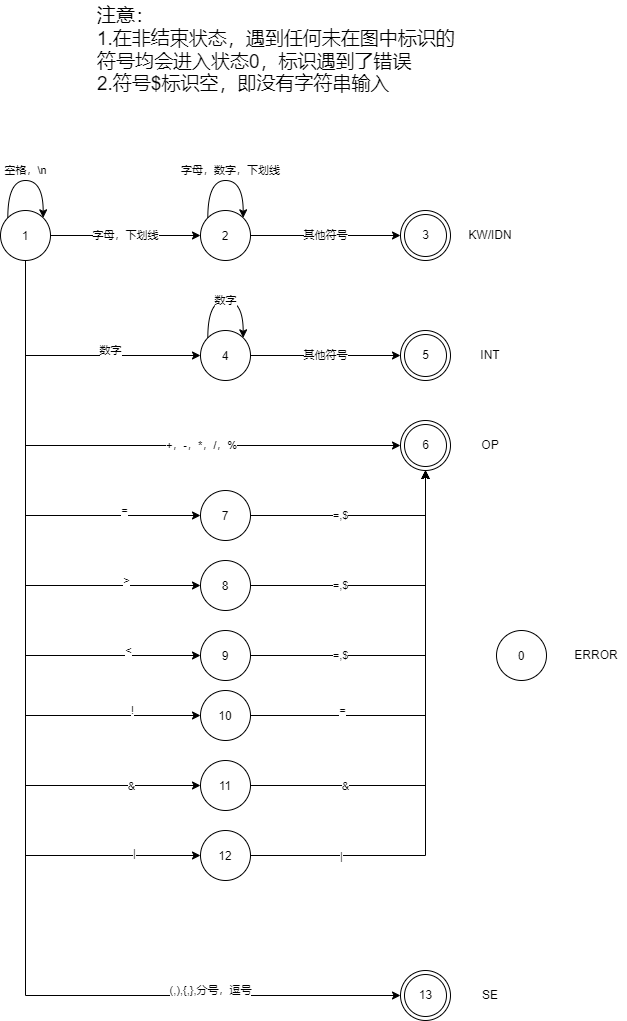
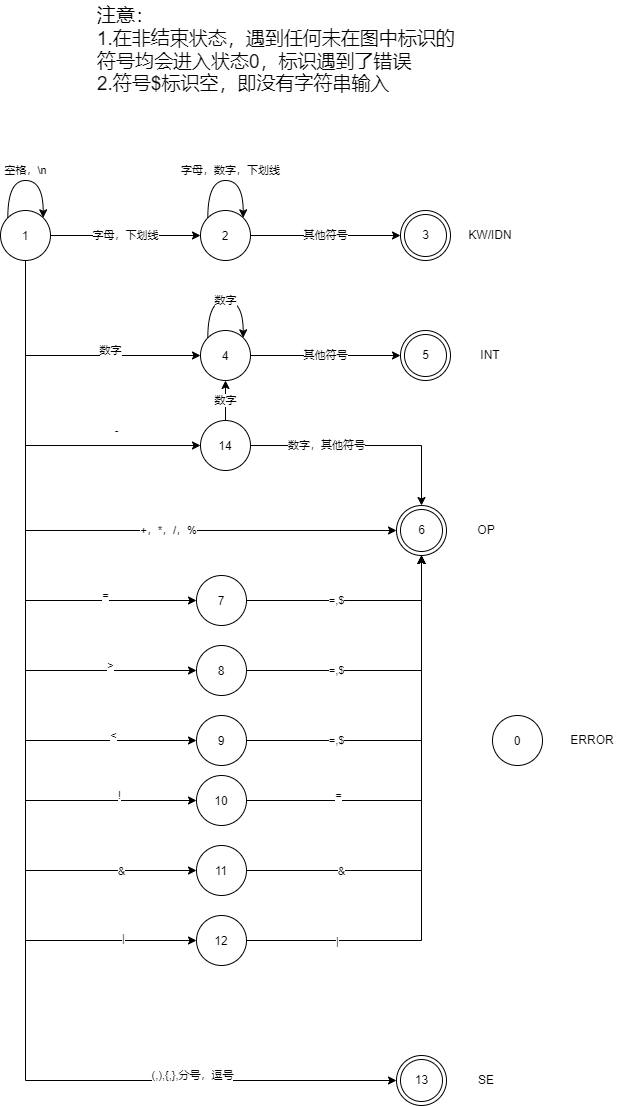
由于nfa，dfa需要，重构State，状态转换图改变

diff --git a/C--Complier/complier/src/main/java/lex/implement/StateGenerate.java b/C--Complier/complier/src/main/java/lex/implement/StateGenerate.java
@@ -4,10 +4,7 @@ import lex.entity.State;
 
 import java.io.FileNotFoundException;
 import java.io.FileReader;
-import java.util.ArrayList;
-import java.util.LinkedList;
-import java.util.List;
-import java.util.Scanner;
+import java.util.*;
 
 /**
  * @projectName: complier
@@ -19,85 +16,82 @@ import java.util.Scanner;
  * @version: 1.0
  */
 class StateGenerate {
-    List<State> generateNFA() throws FileNotFoundException {
-        List<State> stateList = new LinkedList<>();
-        Scanner scanner = new Scanner(new FileReader("./src/main/resources/initialStateTable.csv"));
-        scanner.nextLine();
+    /**
+     * @param :fileName NFA表文件所在路径
+     * @return List<State>
+     * @author ZhouXiang
+     * @description 获取初始的NFA
+     * @exception
+     */
+    List<State> generateNFA(String fileName) throws FileNotFoundException {
+        List<State> stateList = new ArrayList<>();
+        Scanner scanner = new Scanner(new FileReader(fileName));
+        String[] attribute = null;
+        if(scanner.hasNextLine()){
+            attribute = scanner.nextLine().split(",");
+        }
+
         while (scanner.hasNextLine()){
             String[] line = scanner.nextLine().split(",");
-            int stateId = Integer.parseInt(line[0]);
+            int stateId = -1;
             boolean start = false;
-            boolean end = false;
-            if(line[1].equals("TRUE")){
-                start = true;
-            }
-            if(line[2].equals("TRUE")){
-                end = true;
-            }
-            int[] symbol = new int[24];
-            for(int i = 0; i < 24; i++){
-                symbol[i] = Integer.parseInt(line[i + 3]);
+            String endSymbol = null;
+            //从表中读除了状态转移以外的数据
+            for (int i = 0; i < line.length; i++){
+                switch (attribute[i]){
+                    case "stateId":
+                        stateId = Integer.parseInt(line[i]);
+                        break;
+                    case "start":
+                        if(line[i].equals("TRUE")){
+                            start = true;
+                        }
+                        break;
+                    case "endSymbol":
+                        endSymbol = line[i];
+                        break;
+                    default:
+                }
             }
 
-            State state = new State(stateId, end, start){
+            //取出状态转移的部分
+            int attributeNum = 3;
+            int[] move = new int[line.length - attributeNum];
+            for(int i = 0; i < move.length; i++){
+                move[i] = Integer.parseInt(line[i + attributeNum]);
+            }
+
+            String[] finalAttribute = attribute;
+            State state = new State(stateId, start, endSymbol, Arrays.copyOfRange(finalAttribute, attributeNum, finalAttribute.length)){
                 @Override
+                //处理状态转移
                 public int getNextStateId(char input){
-                    if(Character.isLetter(input)){
-                        return symbol[0];
+                    for(int i = 0; i < move.length; i++){
+                        if (finalAttribute[i + attributeNum].equals("letter")) {
+                            if(Character.isLetter(input)){
+                                return move[i];
+                            }
+                        } else if (finalAttribute[i + attributeNum].equals("digit")) {
+                            if(Character.isDigit(input)){
+                                return move[i];
+                            }
+                        } else {
+                            if(Character.toString(input).equals(finalAttribute[i])){
+                                return move[i];
+                            }
+                        }
                     }
-                    if(Character.isDigit(input)){
-                        return symbol[1];
-                    }
-                    switch (input){
-                        case '_':
-                            return symbol[2];
-                        case '+':
-                            return symbol[3];
-                        case '-':
-                            return symbol[4];
-                        case '*':
-                            return symbol[5];
-                        case '/':
-                            return symbol[6];
-                        case '%':
-                            return symbol[7];
-                        case '=':
-                            return symbol[8];
-                        case '$':
-                            return symbol[9];
-                        case '>':
-                            return symbol[10];
-                        case '<':
-                            return symbol[11];
-                        case '!':
-                            return symbol[12];
-                        case '&':
-                            return symbol[13];
-                        case '|':
-                            return symbol[14];
-                        case '(':
-                            return symbol[15];
-                        case ')':
-                            return symbol[16];
-                        case '{':
-                            return symbol[17];
-                        case '}':
-                            return symbol[18];
-                        case ',':
-                            return symbol[19];
-                        case ';':
-                            return symbol[20];
-                        case ' ':
-                            return symbol[21];
-                        case '\n':
-                            return symbol[22];
-                        default:
-                            return symbol[23];
-                    }
+                    return -1;
                 }
             };
             stateList.add(state);
         }
+
         return stateList;
+    }
+
+    List<State> determineNFA(List<State> nfa){
+        List<State> dfa = new ArrayList<>();
+
     }
 }

diff --git a/C--Complier/complier/src/main/java/lex/entity/State.java b/C--Complier/complier/src/main/java/lex/entity/State.java
@@ -1,16 +1,23 @@
 package lex.entity;
 
+import java.util.ArrayList;
 import java.util.List;
 
 public class State {
-    private int stateId;
-    private boolean start;
-    private boolean end;
+    private int stateId; //状态id
+    private boolean start; //是否为起始状态
+    private String endSymbol; //若为结束状态，则为其对应的标识，否则为NOT_END
+    private String[] moveSymbol; //所有状态转移的符号
 
-    public State(int stateId, boolean end, boolean start) {
+    public State(int stateId, boolean start, String endSymbol, String[] moveSymbol) {
         this.start = start;
         this.stateId = stateId;
-        this.end = end;
+        this.endSymbol = endSymbol;
+        this.moveSymbol = moveSymbol;
+    }
+
+    public String getEndSymbol() {
+        return endSymbol;
     }
 
     public boolean isStart() {
@@ -25,16 +32,27 @@ public class State {
         this.stateId = stateId;
     }
 
-    public void setEnd(boolean end) {
-        this.end = end;
+    public String[] getMoveSymbol() {
+        return moveSymbol;
     }
 
     public int getStateId() {
         return stateId;
     }
 
-    public boolean isEnd() {
-        return end;
+    /**
+     * @param :
+     * @return boolean
+     * @author ZhouXiang
+     * @description 判断是不是终止状态
+     * @exception
+     */
+    public boolean isEnd(){
+        if(this.endSymbol.equals("NOT_END")){
+            return false;
+        }else {
+            return true;
+        }
     }
 
     /**
@@ -66,6 +84,19 @@ public class State {
     }
 
 
+    /**
+     * @param :fa 状态转换机(nfa/dfa)
+     * @return List<State>
+     * @author ZhouXiang
+     * @description 求其空转移的闭包
+     * @exception
+     */
+    public List<State> getBlankMove(List<State> fa){
+        List<State> blankMove = new ArrayList<>();
+        if(this.getNextStateId('$') != 0){
+            blankMove.add(this.getNextState('$', fa));
+        }
+    }
 }
 
 

diff --git a/C--Complier/complier/src/main/java/lex/entity/NFAState.java b/C--Complier/complier/src/main/java/lex/entity/NFAState.java
@@ -1,0 +1,46 @@
+package lex.entity;
+
+import java.util.List;
+
+/**
+ * @projectName: complier
+ * @package: lex.entity
+ * @className: NFAState
+ * @author: Zhou xiang
+ * @description: nfa的状态
+ * @date: 2023/4/7 23:45
+ * @version: 1.0
+ */
+public class NFAState extends State{
+    public NFAState(int stateId, boolean start, String endSymbol, String[] moveSymbol) {
+        super(stateId, start, endSymbol, moveSymbol);
+    }
+
+    /**
+     * @param input:
+     * @return State
+     * @author ZhouXiang
+     * @description 获取面对该输入的下一个状态
+     * @exception
+     */
+    public State getNextState(char input, List<State> states){
+        int id = getNextStateId(input);
+        for(State state: states){
+            if(id == state.getStateId()){
+                return state;
+            }
+        }
+        return null;
+    }
+
+    /**
+     * @param input:
+     * @return int
+     * @author ZhouXiang
+     * @description 每次创建实例时要重写该方法
+     * @exception
+     */
+    public int getNextStateId(char input){
+        return 0;
+    }
+}

diff --git a/C--Complier/complier/src/main/java/lex/entity/StateList.java b/C--Complier/complier/src/main/java/lex/entity/StateList.java
@@ -1,0 +1,43 @@
+package lex.entity;
+
+import java.util.List;
+import java.util.Map;
+
+/**
+ * @projectName: complier
+ * @package: lex.entity
+ * @className: StateList
+ * @author: Zhou xiang
+ * @description: 状态的集合，主要用于nfa确定化和dfa最小化
+ * @date: 2023/4/7 22:15
+ * @version: 1.0
+ */
+public class StateList {
+    private List<State> states; //集合中包含的状态
+    private int stateListId; //状态集合编号0
+    private boolean start; //标识有没有起始状态
+    private String endSymbol; //若为结束状态，则为其对应的标识，否则为NOT_END
+    private Map<String, Integer> moveMap; //key为转移符号，value为转移到的状态集合编号
+
+    public List<State> getStates() {
+        return states;
+    }
+
+    public int getStateListId() {
+        return stateListId;
+    }
+
+    public boolean isStart() {
+        return start;
+    }
+
+    public String getEndSymbol() {
+        return endSymbol;
+    }
+
+    public Map<String, Integer> getMoveMap() {
+        return moveMap;
+    }
+
+
+}

diff --git a/C--Complier/complier/src/main/java/lex/entity/DFAState.java b/C--Complier/complier/src/main/java/lex/entity/DFAState.java
@@ -1,0 +1,13 @@
+package lex.entity;
+
+/**
+ * @projectName: complier
+ * @package: lex.entity
+ * @className: DFAState
+ * @author: Zhou xiang
+ * @description: TODO
+ * @date: 2023/4/7 23:46
+ * @version: 1.0
+ */
+public class DFAState {
+}
